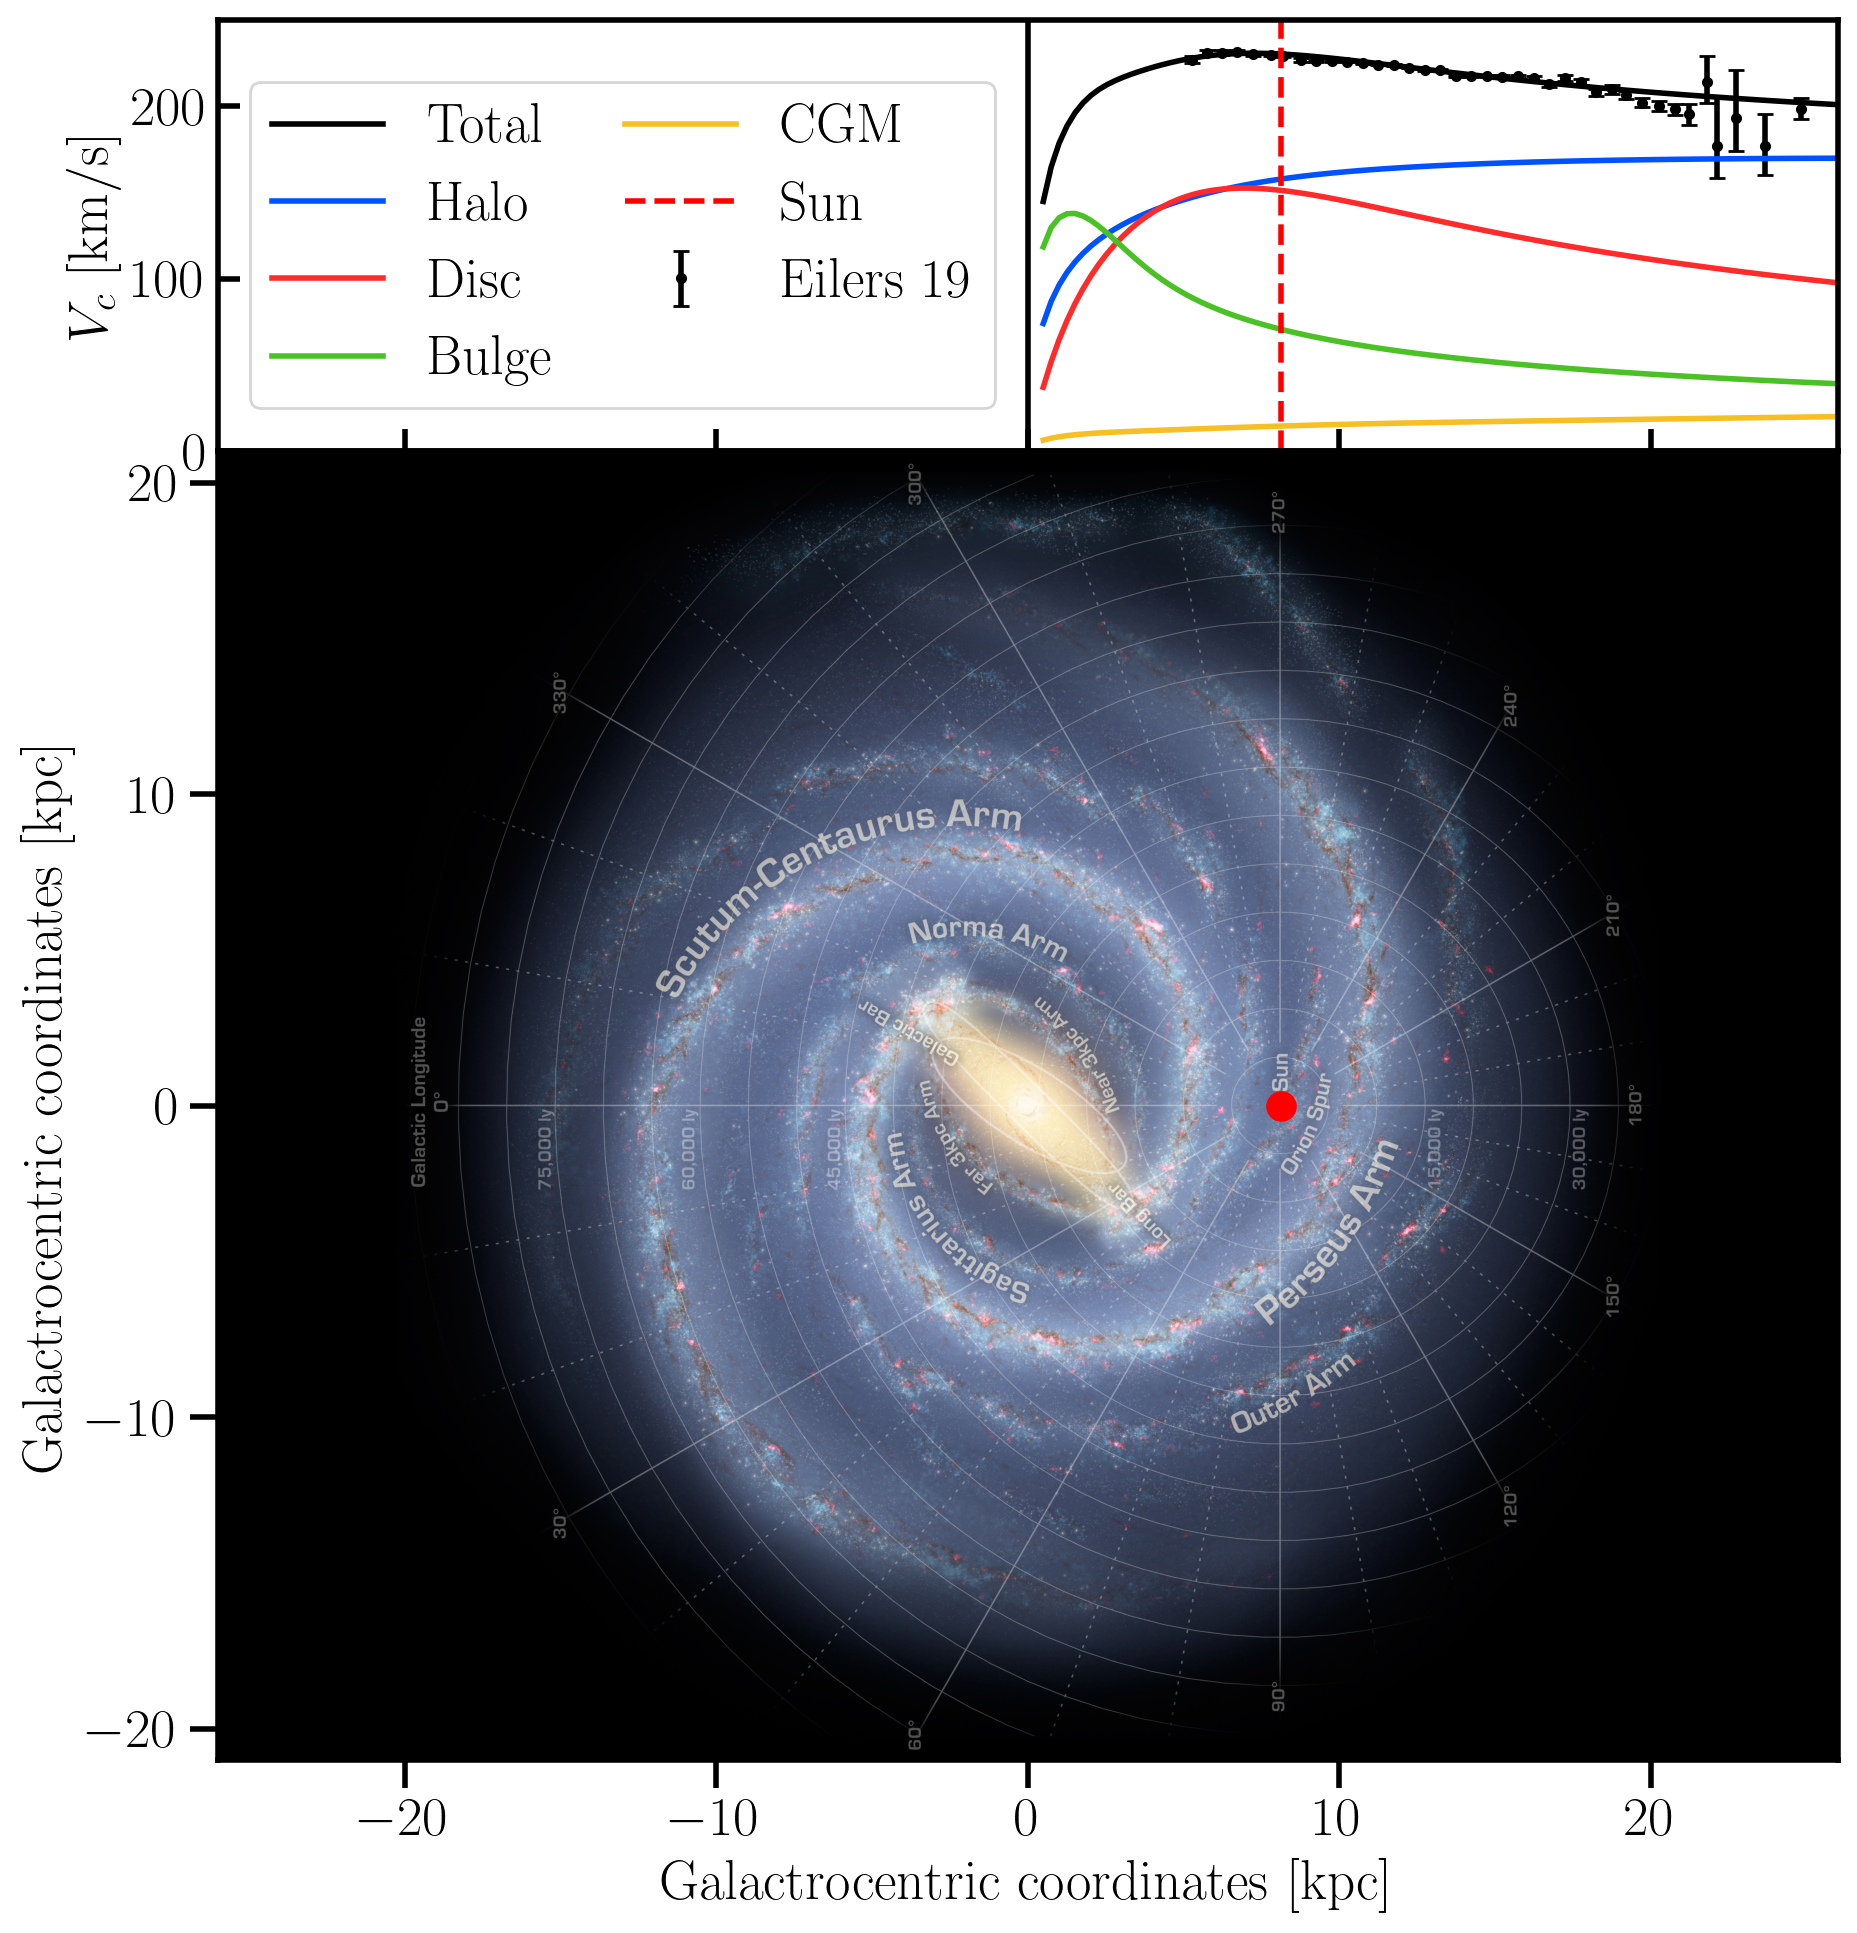
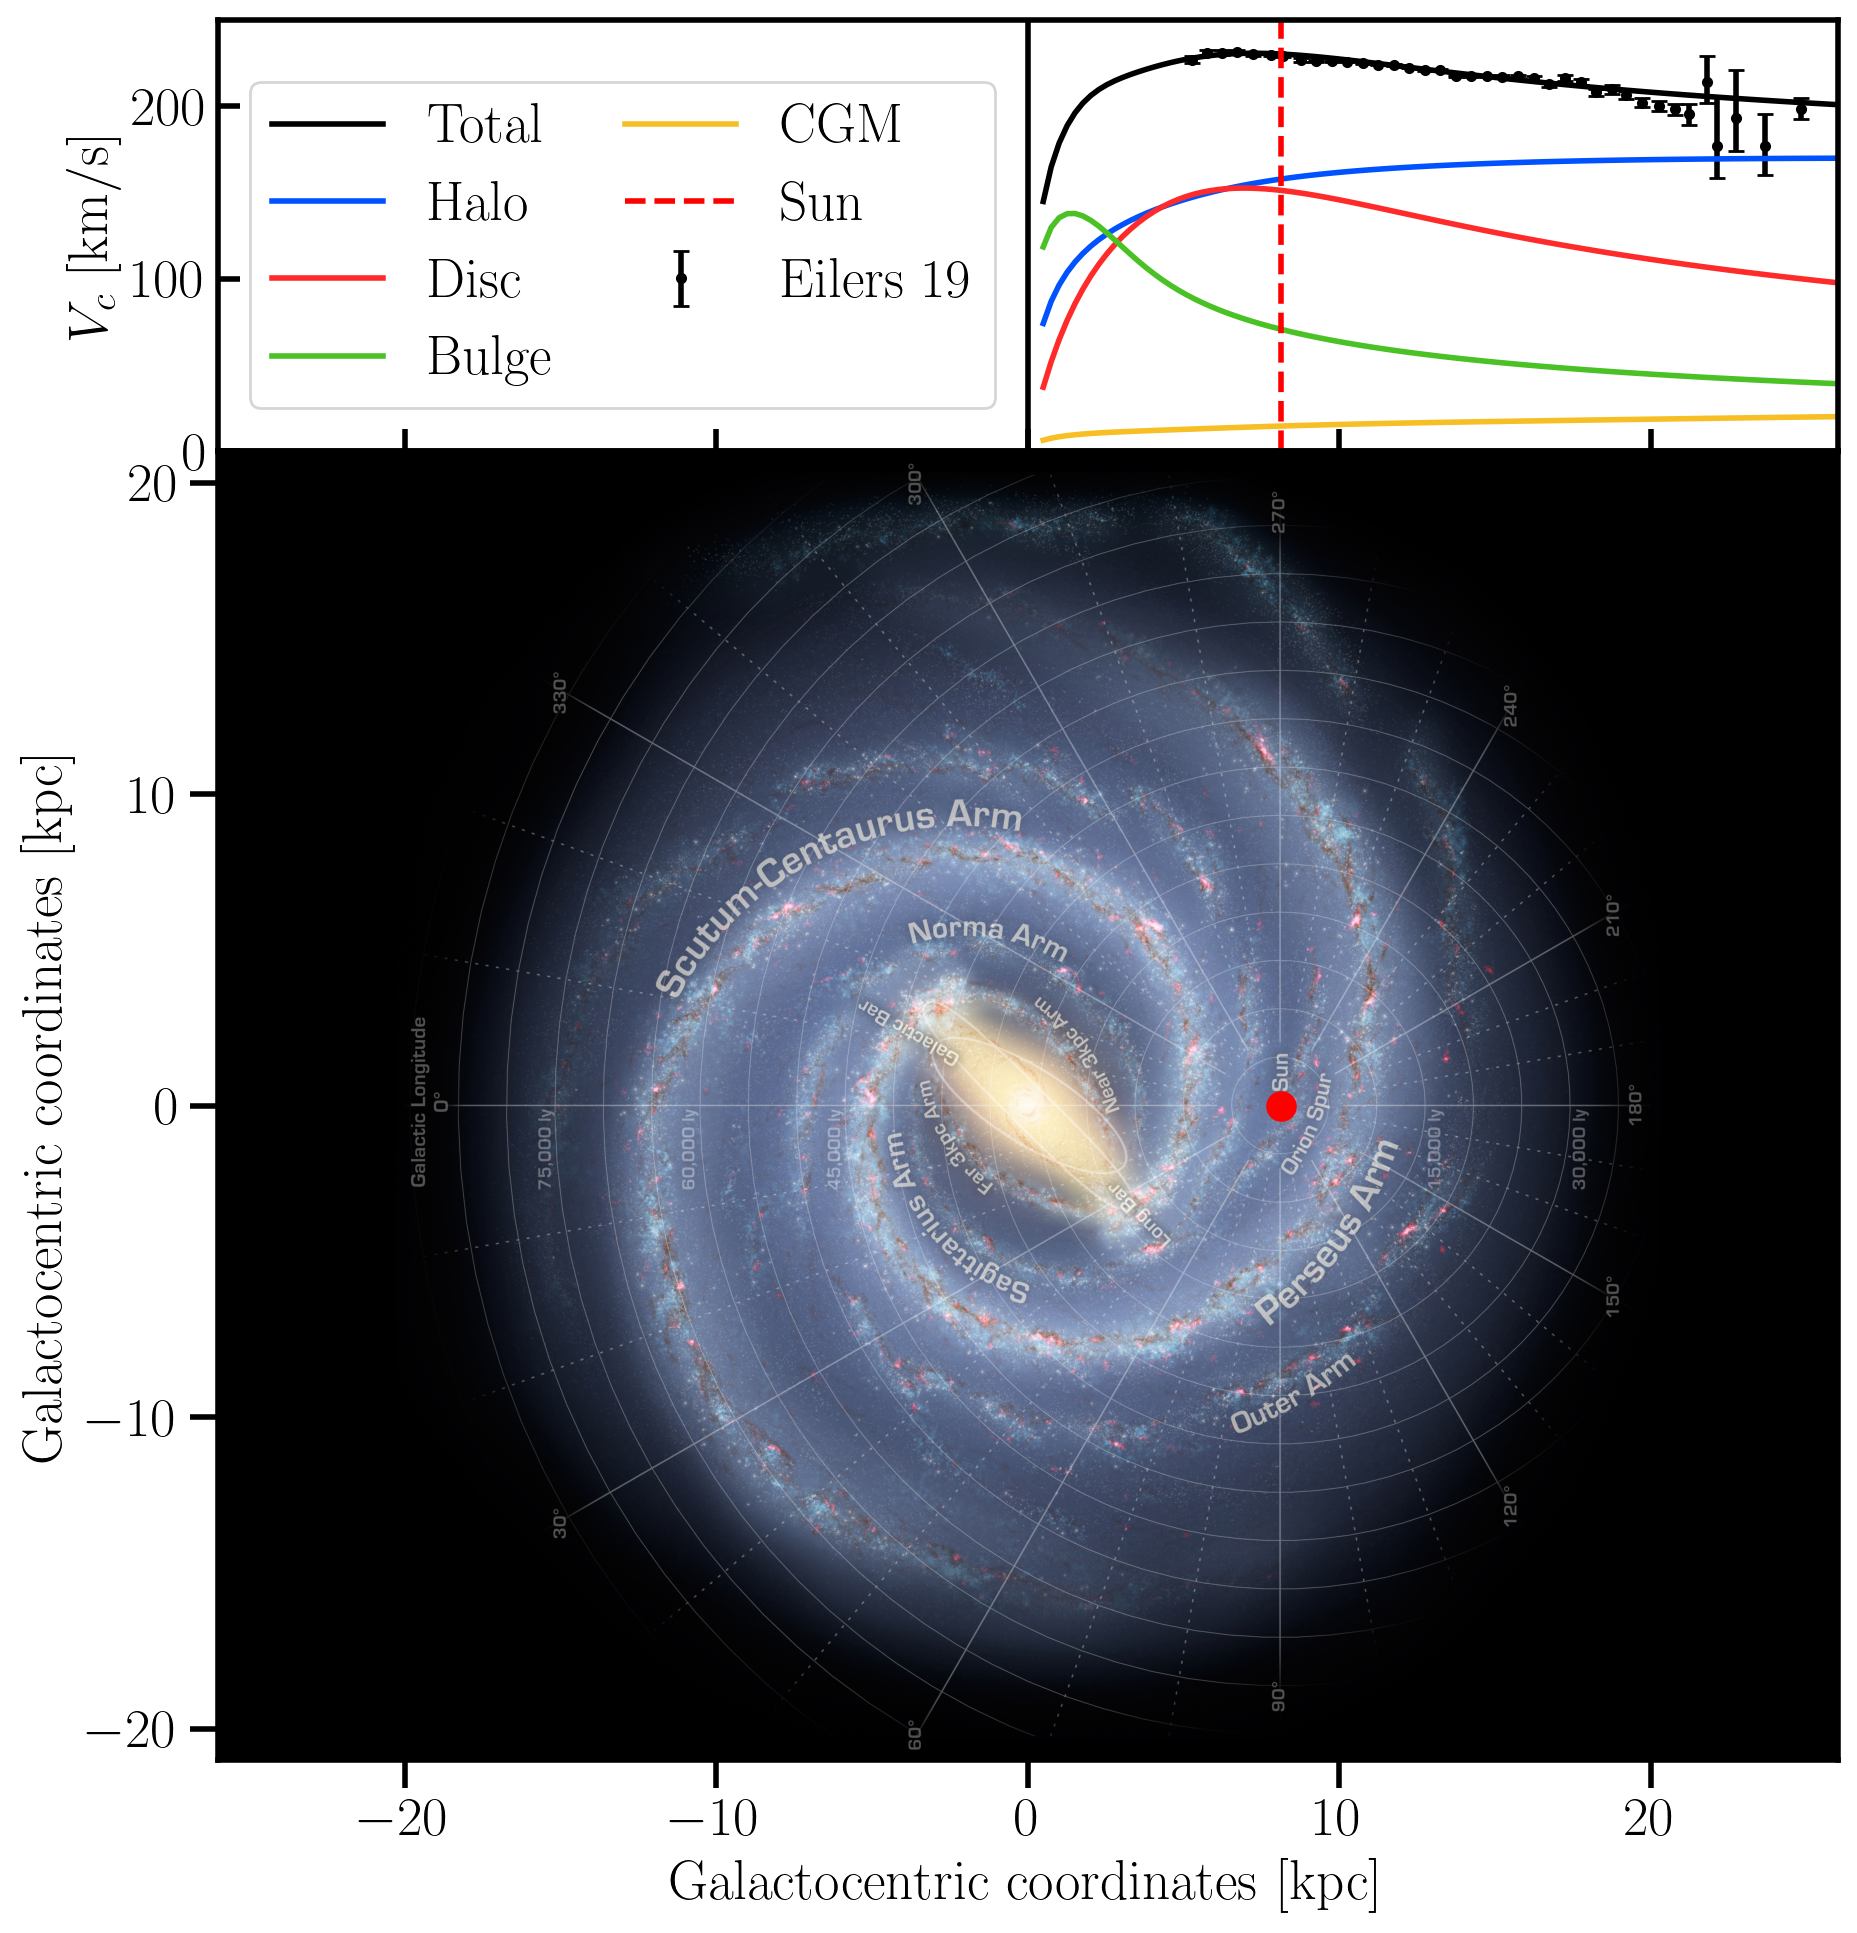
everyone hates typos

Changed region(s): [[0.3436, 0.9622, 0.7496, 0.9933], [0.0, 0.4035, 0.0312, 0.776]]

diff --git a/thesis_plots/rotation_curve/rotation_curve_milkyway.py b/thesis_plots/rotation_curve/rotation_curve_milkyway.py
@@ -94,4 +94,4 @@ def combined_milkiway_plot(r_max=26, h_frac=0.33):
     plt.sca(ax2)
     ax2.tick_params(axis='both', direction='out')
     for xy_label in [plt.ylabel, plt.xlabel]:
-        xy_label('$\mathrm{Galactrocentric\ coordinates\ [kpc]}$')
+        xy_label('$\mathrm{Galactocentric\ coordinates\ [kpc]}$')
